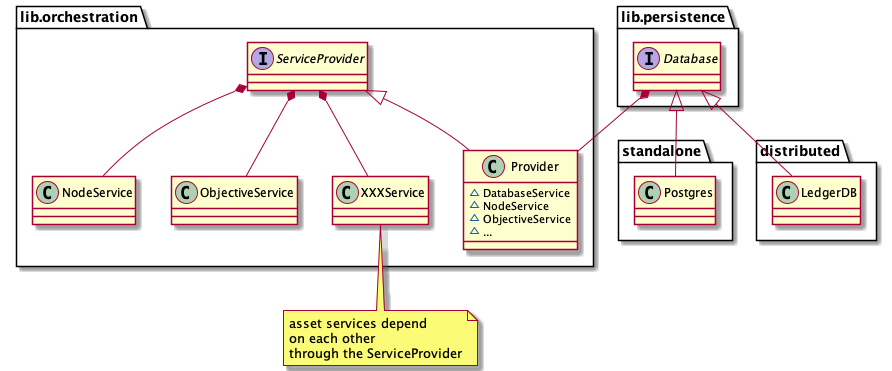
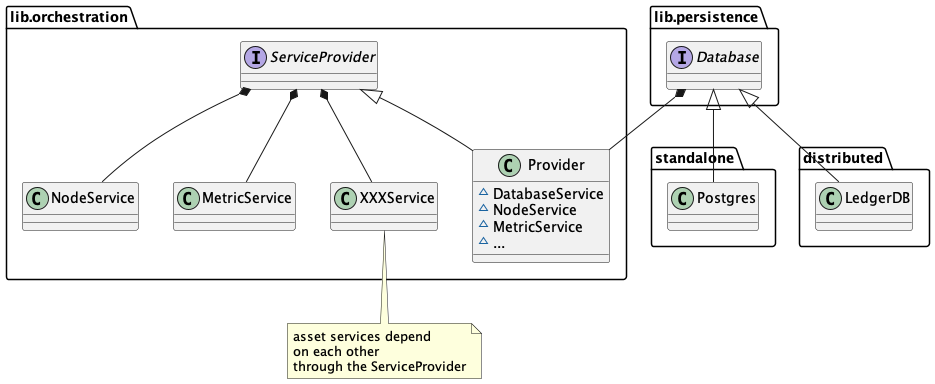
chore!: remove metric kind (#672)

diff --git a/docs/assets/index.md b/docs/assets/index.md
@@ -23,8 +23,7 @@ Then, **[DataSamples](./datasamples.md)** are attached to the **DataManager**.
 These samples can be either used during both training and testing or restricted to be only used for testing.
 
 Algorithms (named **Algos**) are then created and embed: the actual python algorithm, a Dockerfile to build it and a description file.
-
-**Metrics** reference scripts which evaluate the performances of a model against test data.
+**Algos** can produce models (train), or evaluate performances of such models (eval).
 
 Once all those basic assets are defined, a **ComputePlan** can be registered.
 A ComputePlan is a way to group tasks [ComputeTasks](./computetask.md) related to a common project.
@@ -32,7 +31,7 @@ Tasks are related to one another in a directed acyclic graph: output models are 
 
 The final step is to define the graph of **ComputeTasks**.
 Tasks are the core asset of the orchestrator, they represent the execution of a model training or prediction (TestTask).
-They glue together the **Algos**, **DataManager**, **DataSamples** and optionally a **Metric**.
+They glue together the **Algos**, **DataManager** and **DataSamples**.
 
 When a task is processed, it outputs one or more **Model** or **Performance**.
 The produced **[Model](./model.md)** will inherit its permissions from different parents: task definition, data processed, etc.

diff --git a/CHANGELOG.md b/CHANGELOG.md
@@ -13,6 +13,9 @@ and this project adheres to [Semantic Versioning](https://semver.org/spec/v2.0.0
 - Remove datasample asset column (#666)
 - Algos now have Inputs and Outputs (#641)
 
+### Removed
+- `ASSET_METRIC` kind
+
 ## [0.9.2] - 2022-04-15
 
 ### Changed

diff --git a/docs/events.md b/docs/events.md
@@ -20,7 +20,6 @@ An event will hold the following fields:
 ## Asset Kind
 
 - node
-- metric
 - datasample
 - algo
 - datamanager
